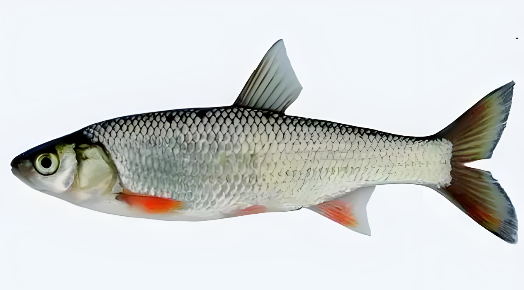
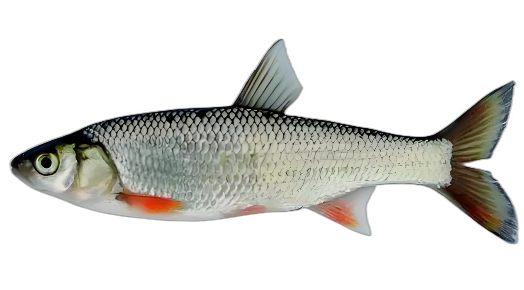
fix: 青鱼/雅罗鱼图片AI抠图去背景，jpg→png

diff --git a/index.html b/index.html
@@ -1467,7 +1467,7 @@ const FISH_SPECIES = [
     rarity:2, difficulty:2
   },
   {
-    id:10, name:"青鱼", image:"images/青鱼.jpg", type:"底层", diet:"肉食(螺类)",
+    id:10, name:"青鱼", image:"images/青鱼.png", type:"底层", diet:"肉食(螺类)",
     months:[5,6,7,8,9], peakMonths:[6,7,8],
     habitat:"大江大河和大型水库深水区底部，喜螺蛳丰富的区域。四大家鱼中体型最大的一种。",
     bait:[{name:"螺蛳肉", tier:"best"}, {name:"田螺", tier:"best"}, {name:"玉米粒", tier:"good"}, {name:"颗粒饵", tier:"good"}, {name:"蚌肉", tier:"ok"}, {name:"蚯蚓", tier:"ok"}],